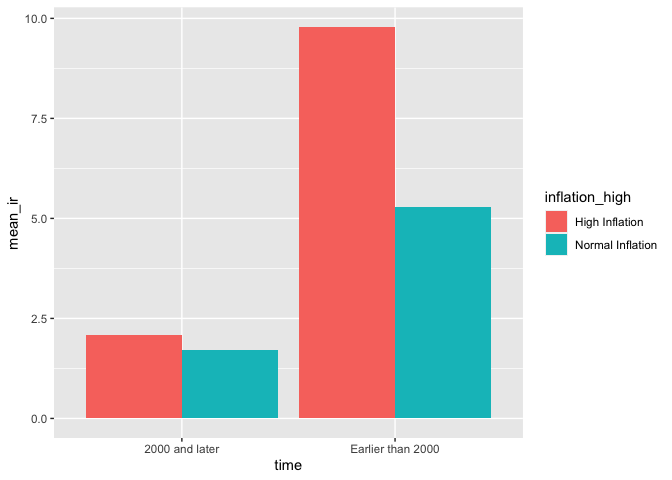
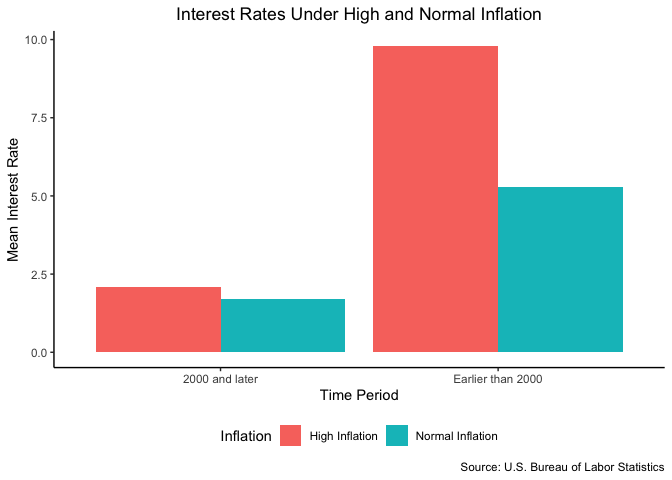
making grapsh in answer key pretty

diff --git a/assignments/data_wrangling/data_wrangling_answerkey.md b/assignments/data_wrangling/data_wrangling_answerkey.md
@@ -93,7 +93,15 @@ df |>
             mean_ir = mean(Interest.Rate)) |>
   ggplot() +
     geom_line(aes(x = Year, y = mean_inflation), color = "orange") +
-    geom_line(aes(x = Year, y = mean_ir), color = "purple")
+    geom_line(aes(x = Year, y = mean_ir), color = "purple") +
+  labs(y = "Rate",
+       x = "Year",
+       title = "Interest Rates and Inflation",
+       subtitle = "Interest rate in purple, inflation in orange",
+       caption = "Source: U.S. Bureau of Labor Statistics") +
+  theme_classic() +
+  theme(plot.title = element_text(hjust = .5),
+        plot.subtitle = element_text(hjust = .5))
 ```
 
 ![](data_wrangling_answerkey_files/figure-commonmark/compare-1.png)
@@ -114,7 +122,15 @@ df |>
   filter(!is.na(inflation_high)) |>
   ggplot() +
     geom_bar(aes(x = time, y = mean_ir, fill = inflation_high),
-              stat = "identity", position = "dodge")
+              stat = "identity", position = "dodge") +
+  labs(y = "Mean Interest Rate",
+       x = "Time Period",
+       fill = "Inflation",
+       title = "Interest Rates Under High and Normal Inflation",
+       caption = "Source: U.S. Bureau of Labor Statistics") +
+  theme_classic() +
+  theme(plot.title = element_text(hjust = .5),
+        legend.position = "bottom")
 ```
 
 ![](data_wrangling_answerkey_files/figure-commonmark/categories-1.png)
